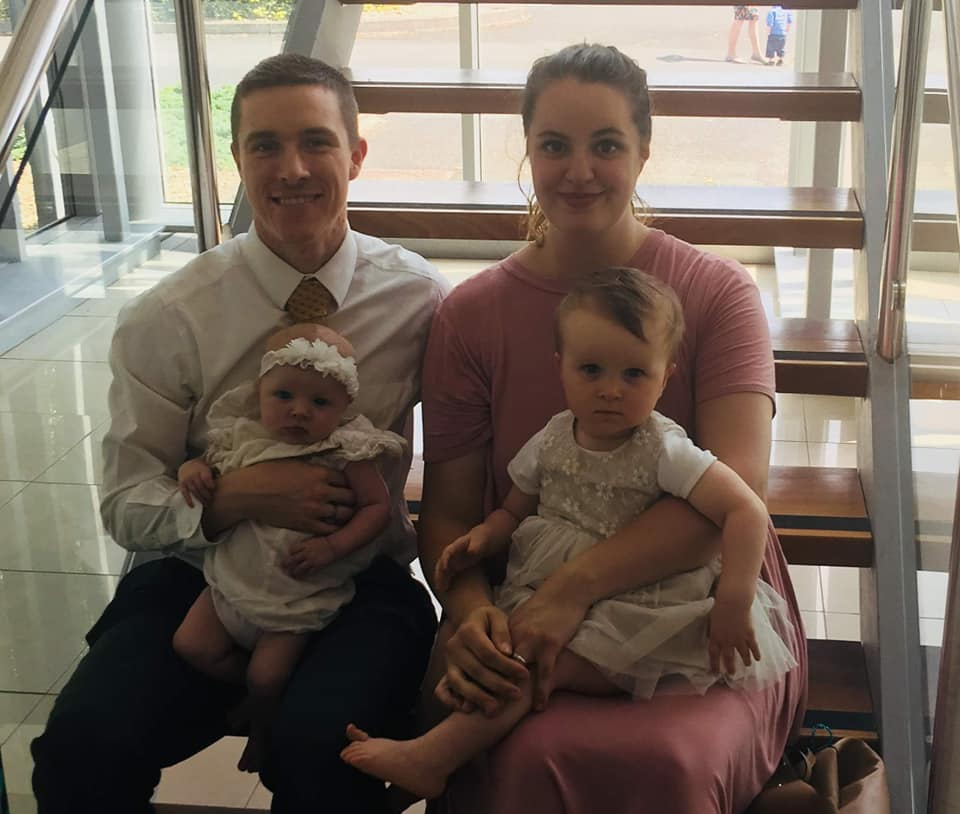
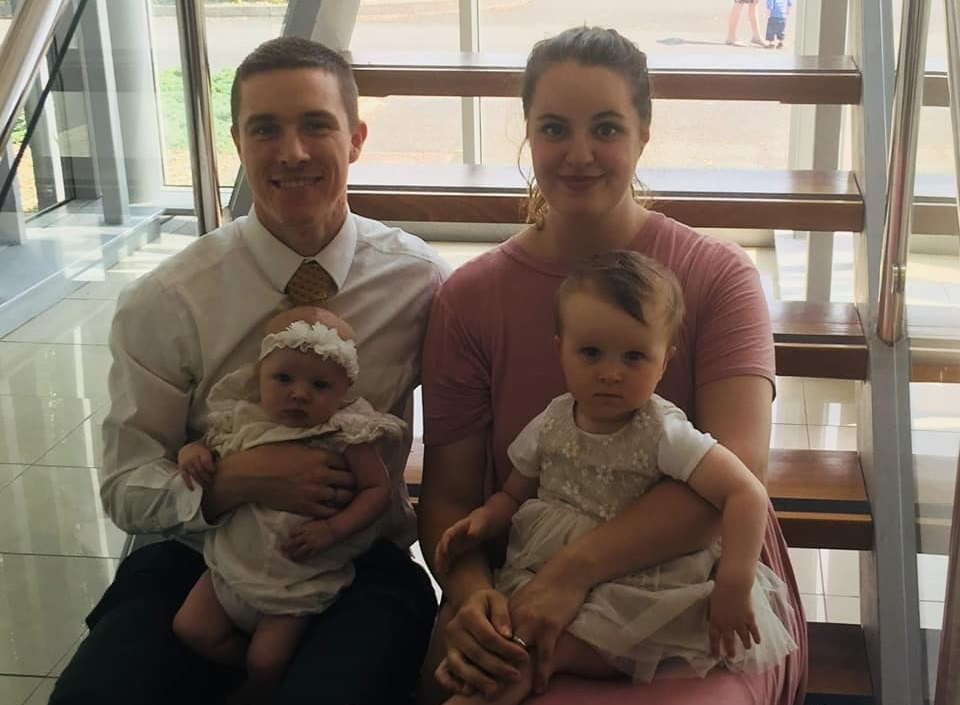
Started setting up custom images and links.

diff --git a/app/index.html b/app/index.html
@@ -63,19 +63,19 @@
     <div class="jacobdsiler">
       <div class="feature-item row row__three">
         <picture>
-          <img src="assets/images/jacob-d-siler.jpg" alt="Jacob D Siler crouching in a hay field with the sun beaming in the background." class="jacobdsiler__image">
+          <a href="https://www.linkedin.com/in/jacob-siler-46341b69"><img src="assets/images/jacob-d-siler.jpg" alt="Jacob D Siler crouching in a hay field with the sun beaming in the background." class="jacobdsiler__image jacobdsiler__image--feature"></a>
         </picture>
       </div>
 
       <div class="feature-item row row__three">
         <picture>
-          <img src="https://via.placeholder.com/2048x1356?text=Jacob+D+Siler+Portfolio+Image" alt="Here is a placeholder image." class="jacobdsiler__image">
+          <img src="assets/images/my-family.jpg" alt="Here is a placeholder image." class="jacobdsiler__image jacobdsiler__image--feature">
         </picture>
       </div>
 
       <div class="feature-item row row__three">
         <picture>
-          <img src="https://via.placeholder.com/2048x1356?text=Jacob+D+Siler+Portfolio+Image" alt="Here is a placeholder image." class="jacobdsiler__image">
+          <img src="assets/images/jacob-and-gene.jpg" alt="Gene, my beautiful wife, and I smiling in the sun." class="jacobdsiler__image jacobdsiler__image--feature">
         </picture>
       </div>
     </div>
@@ -83,19 +83,19 @@
     <div class="row-two page-section">
       <div class="feature-item row row__three">
         <picture>
-          <img src="https://via.placeholder.com/2048x1356?text=Jacob+D+Siler+Portfolio+Image" alt="Here is a placeholder image." class="jacobdsiler__image">
+          <img src="https://via.placeholder.com/2048x1356?text=Fashion+by+Gené" alt="Here is a placeholder image." class="jacobdsiler__image">
         </picture>
       </div>
 
       <div class="feature-item row row__three">
         <picture>
-          <img src="https://via.placeholder.com/2048x1356?text=Jacob+D+Siler+Portfolio+Image" alt="Here is a placeholder image." class="jacobdsiler__image">
+          <a href="https://jacobdsiler.github.io/travel-site-ex/" ><img src="assets/images/example-travel-site.jpg" alt="My example of a client Travel Site." class="jacobdsiler__image"></a>
         </picture>
       </div>
 
       <div class="feature-item row row__three">
         <picture>
-          <img src="https://via.placeholder.com/2048x1356?text=Jacob+D+Siler+Portfolio+Image" alt="Here is a placeholder image." class="jacobdsiler__image">
+          <img src="https://via.placeholder.com/2048x1356?text=Greenleaf+Healing" alt="Here is a placeholder image." class="jacobdsiler__image">
         </picture>
       </div>
     </div>
@@ -103,13 +103,13 @@
     <div class="row-three">
       <div class="feature-item row row__three">
         <picture>
-          <img src="https://via.placeholder.com/2048x1356?text=Jacob+D+Siler+Portfolio+Image" alt="Here is a placeholder image." class="jacobdsiler__image">
+          <img src="https://via.placeholder.com/2048x1356?text=Volunteer+Work" alt="Here is a placeholder image." class="jacobdsiler__image">
         </picture>
       </div>
 
       <div class="feature-item row row__three">
         <picture>
-          <img src="https://via.placeholder.com/2048x1356?text=Jacob+D+Siler+Portfolio+Image" alt="Here is a placeholder image." class="jacobdsiler__image">
+          <img src="https://via.placeholder.com/2048x1356?text=My+Games" alt="Here is a placeholder image." class="jacobdsiler__image">
         </picture>
       </div>
 
@@ -124,7 +124,7 @@
 
     <div class="jacobdsiler__text-content">
      <p>
-       Do you like my color scheme?
+       Dummy text here.
      </p>
     </div>
 

diff --git a/app/assets/styles/modules/_jacobdsiler.css b/app/assets/styles/modules/_jacobdsiler.css
@@ -4,9 +4,17 @@
   display: block;
   position: relative;
   margin-top: 5px;
+
   border-radius: 20px;
   border-color: $frameColor;
   border-style: none;
+
+
+    &--feature {
+      margin-left: auto;
+      margin-right: auto;
+      max-height: 15rem;
+    }
   }
 
   &__text-content {

diff --git a/app/temp/styles/styles.css b/app/temp/styles/styles.css
@@ -515,6 +515,12 @@ a {
   border-style: none;
 }
 
+.jacobdsiler__image--feature {
+  margin-left: auto;
+  margin-right: auto;
+  max-height: 15rem;
+}
+
 .jacobdsiler__text-content {
   color: #485872;
 }
